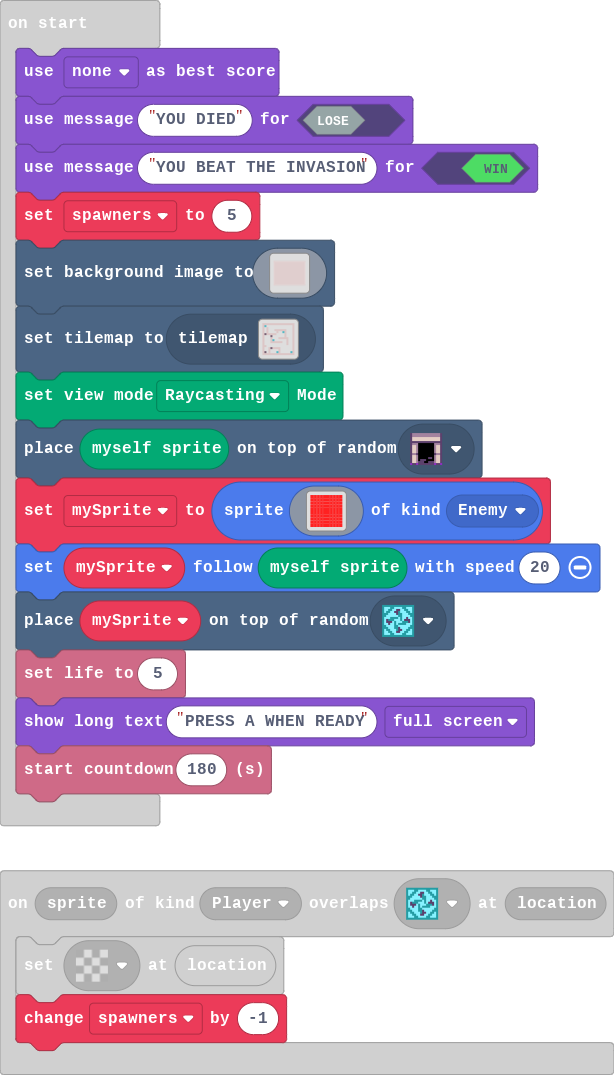
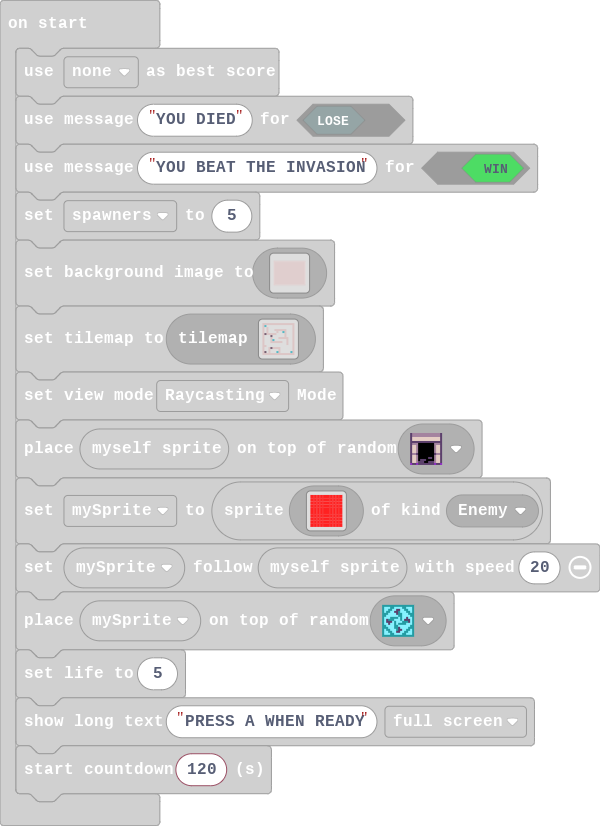
Update main.blocks, main.ts

diff --git a/main.ts b/main.ts
@@ -162,7 +162,7 @@ mySprite.follow(Render.getRenderSpriteInstance(), 20)
 tiles.placeOnRandomTile(mySprite, assets.tile`myTile`)
 info.setLife(5)
 game.showLongText("PRESS A WHEN READY", DialogLayout.Full)
-info.startCountdown(180)
+info.startCountdown(120)
 forever(function () {
     if (spawners == 0) {
         game.gameOver(true)
